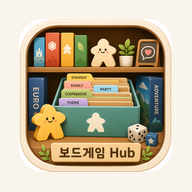
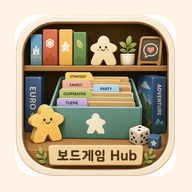
앱 아이콘 교체(가장자리까지 꽉 찬 이미지, 흰 여백 최소화) + SW v3
- 프레임이 가장자리까지 닿는 새 이미지로 아이콘 재생성. 라운드 마스크
  반경을 프레임에 맞춰 흰 모서리만 제거, 여백 최소화.
- apple-touch-icon은 풀블리드(scale 1.0, 흰 모서리는 크림 처리)로
  iOS에서 여백 없이 꽉 차게.
- maskable 스케일 0.80→0.84로 확대. SW 캐시 v2→v3.

Claude-Session: https://claude.ai/code/session_01XFJ2NeDA77Fmy2XeEKb9Y1

diff --git a/index.html b/index.html
@@ -367,7 +367,7 @@
 <body>
 <div id="app">
   <div class="appbar">
-    <h1><span class="dice">🎲</span> 보드게임 Hub <span id="build-tag" style="font-size:10px;font-weight:500;color:var(--text-sub);vertical-align:middle;">v1513</span></h1>
+    <h1><span class="dice">🎲</span> 보드게임 Hub <span id="build-tag" style="font-size:10px;font-weight:500;color:var(--text-sub);vertical-align:middle;">v1520</span></h1>
     <div style="display:flex;align-items:center;gap:10px;">
       <button onclick="refreshAll()" title="최신 데이터로 업데이트"
               style="background:var(--main-light);color:var(--main);border-radius:999px;padding:5px 10px;font-size:12px;font-weight:700;cursor:pointer;white-space:nowrap;">🔄 업데이트</button>
@@ -1942,7 +1942,7 @@ async function submitEditGame(gameId) {
 // ============================================================
 //  초기화
 // ============================================================
-const APP_VERSION = 'v1513 앱 아이콘 교체(크림/우드)';
+const APP_VERSION = 'v1520 앱 아이콘 교체(풀블리드, 여백 최소화)';
 function init() {
   console.log('BoardGameHub build:', APP_VERSION);
   const saved = sessionStorage.getItem('bg_user');

diff --git a/sw.js b/sw.js
@@ -1,6 +1,6 @@
 // 보드게임 Hub — 서비스워커 (PWA 설치 + 앱 셸 오프라인 대비)
 // 캐시 버전만 올리면 갱신됩니다.
-const CACHE = 'bgh-v2';
+const CACHE = 'bgh-v3';
 const SHELL = [
   './',
   './index.html',
